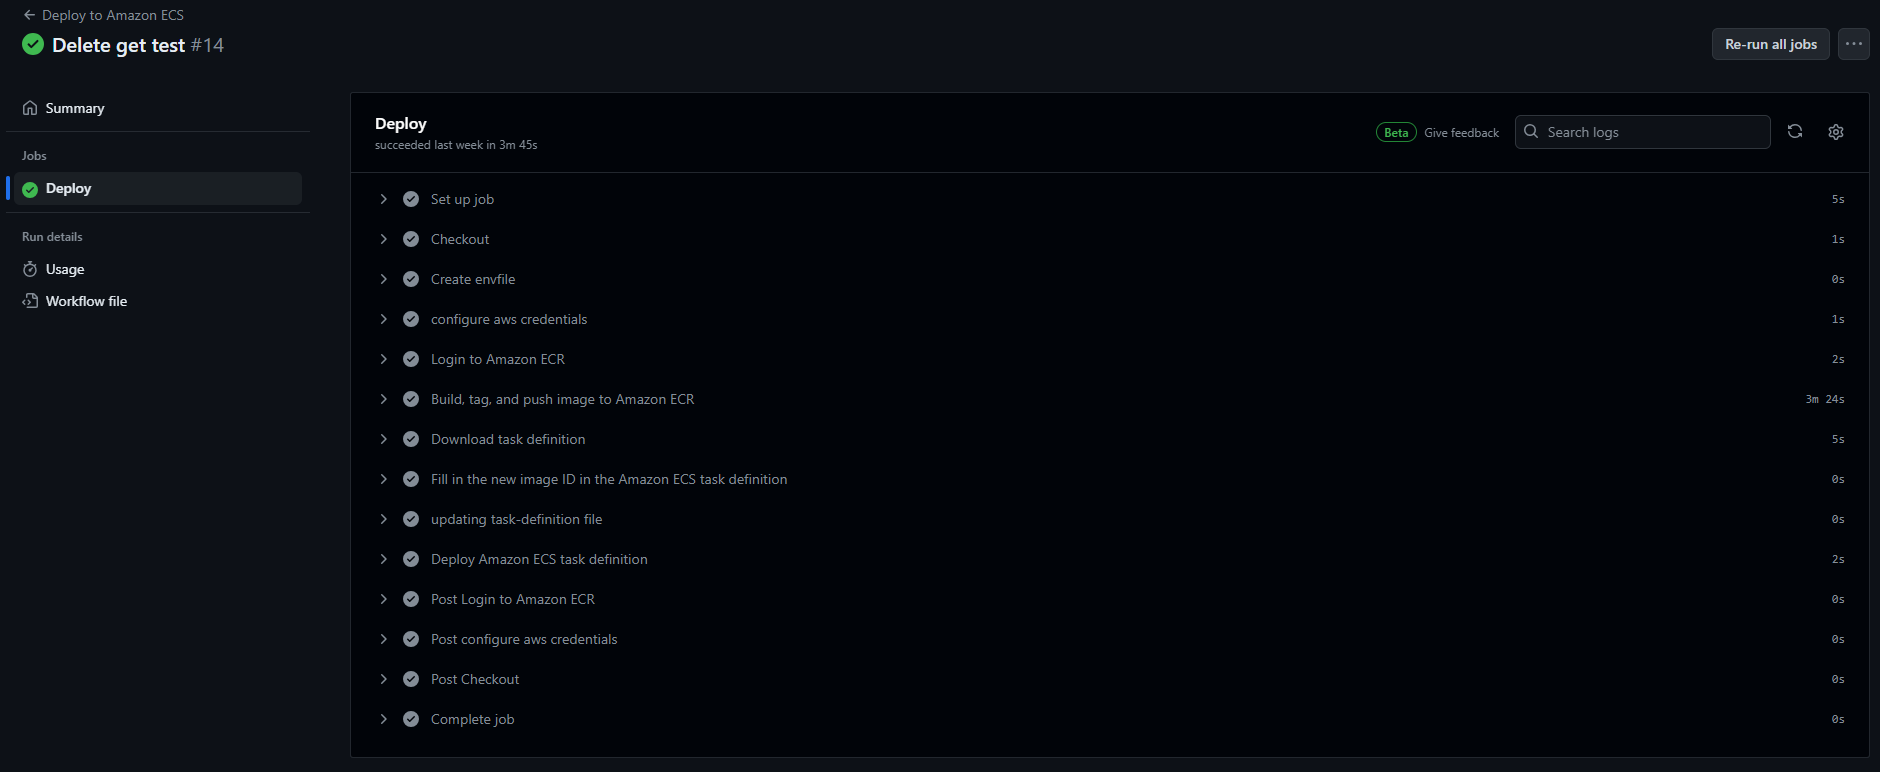
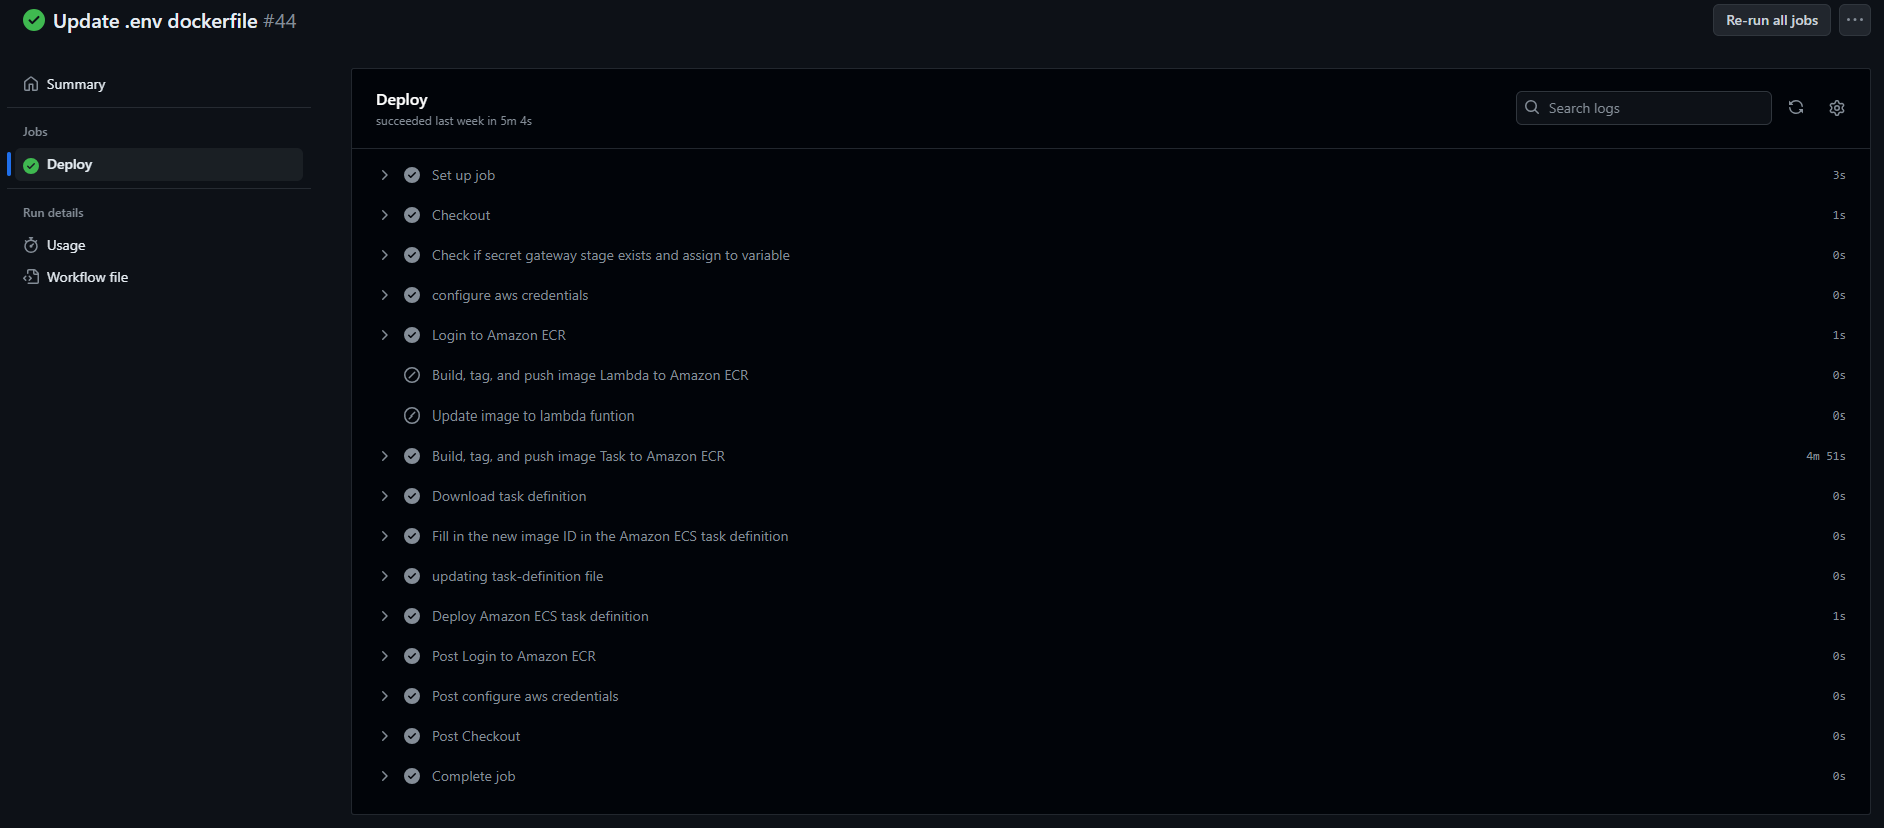
update

diff --git a/Deploy/AWS ECS Deployment.md b/Deploy/AWS ECS Deployment.md
@@ -23,7 +23,7 @@ Detailed process is available [here](https://docs.github.com/en/repositories/cre
 ## Github repo configuration
 Before configuring the deployment workflow, set the deployment variables in the GitHub repository secrets for actions. The workflow requires these variables in order to successfully push the image.
 
-![Github repository action secrets](../images/repo_secret.png "Github repository action secrets").
+![Github repository action secrets](../images/repo_secret.png "Github repository action secrets")
 
 
 | Secret  | Description   |
@@ -45,18 +45,18 @@ Whithin the Github repository, in the '.github/workflows, you will find a file A
 
 Edit the file by adding the branch name you want to deploy.
 
-![Deployment workflow](../images/ECSDeploy_workflow_edit2.png "Deployment workflow").
+![Deployment workflow](../images/ECSDeploy_workflow_edit2.png "Deployment workflow")
 
 
 The file should be as below:
 
 ```yaml
-name: Deploy to Amazon ECS
+name: Deployment AWS
 
 on:
   push:
     branches:
-      - main
+      - deploy1
 
 env:
   AWS_REGION: ${{ secrets.AWS_REGION }}
@@ -64,8 +64,13 @@ env:
   ECS_SERVICE: ${{ secrets.ECS_SERVICE }}
   ECS_CLUSTER: ${{ secrets.ECS_CLUSTER }}
   CONTAINER_NAME: ${{ secrets.CONTAINER_NAME }}
-  EDS_API_URL_SECRET: ${{ secrets.EDS_API_URL }}
-  EDS_AUTH_URL_SECRET: ${{ secrets.EDS_AUTH_URL }}
+  EDS_API_URL: ${{ secrets.EDS_API_URL }}
+  EDS_AUTH_URL: ${{ secrets.EDS_AUTH_URL }}
+  LAMBDA_FUNCTION: ${{ secrets.LAMBDA_FUNCTION }}
+  GATEWAY_STAGE: ${{ secrets.GATEWAY_STAGE }}
+  AWS_ACCESS_KEY_ID: ${{ secrets.AWS_ACCESS_KEY_ID }}
+  AWS_SECRET_ACCESS_KEY: ${{ secrets.AWS_SECRET_ACCESS_KEY }}
+  DEPLOY_LAMBDA: ${{ secrets.DEPLOY_LAMBDA }}
 
 permissions:
   id-token: write # This is required for requesting the JWT
@@ -81,15 +86,15 @@ jobs:
       - name: Checkout
         uses: actions/checkout@v3
 
-      - name: Create envfile
-        uses: SpicyPizza/create-envfile@v2.0
-        with:
-          envkey_EDS_API_URL: ${{ secrets.EDS_API_URL }}
-          envkey_EDS_AUTH_URL: ${{ secrets.EDS_AUTH_URL }}
-          envkey_INPUT_JSON_PATH: "data/processor_input_example.json"
-          file_name: .env
-          fail_on_empty: false
-          sort_keys: false
+      - name: Check if secret gateway stage exists and assign to variable
+        id: gateway-key
+        run: |
+          if [[ -n "${{ env.GATEWAY_STAGE }}" ]]; then
+            echo "::set-output name=key_gateway_stage::${{ env.GATEWAY_STAGE }}"
+          else
+            echo "::set-output name=key_gateway_stage::\"\""
+          fi
+        shell: bash
 
       - name: configure aws credentials
         uses: aws-actions/configure-aws-credentials@v4
@@ -102,8 +107,9 @@ jobs:
         id: login-ecr
         uses: aws-actions/amazon-ecr-login@v2
 
-      - name: Build, tag, and push image to Amazon ECR
-        id: build-image
+      - name: Build, tag, and push image Lambda to Amazon ECR
+        id: build-image-lambda
+        if: ${{ env.DEPLOY_LAMBDA == 'true' }}
         env:
           ECR_REGISTRY: ${{ steps.login-ecr.outputs.registry }}
           IMAGE_TAG: ${{ github.sha }}
@@ -111,12 +117,62 @@ jobs:
           # Build a docker container and
           # push it to ECR so that it can
           # be deployed to ECS.      
-          docker build -t $ECR_REGISTRY/$ECR_REPOSITORY:$IMAGE_TAG .
+          docker build \
+            --build-arg EDS_API_URL=${{ env.EDS_API_URL }} \
+            --build-arg EDS_AUTH_URL=${{ env.EDS_AUTH_URL }} \
+            --build-arg AWS_ACCESS_KEY_ID=${{ env.AWS_ACCESS_KEY_ID }} \
+            --build-arg AWS_SECRET_ACCESS_KEY=${{ env.AWS_SECRET_ACCESS_KEY }} \
+            --build-arg INPUT_JSON_PATH="data/processor_input_example.json" \
+            --build-arg GATEWAY_STAGE=${{ steps.gateway-key.outputs.key_gateway_stage }} \
+            -t $ECR_REGISTRY/$ECR_REPOSITORY:$IMAGE_TAG . -f Dockerfile_lambda
           # docker tag $ECR_REPOSITORY:latest $ECR_REGISTRY/$ECR_REPOSITORY:latest
           docker push $ECR_REGISTRY/$ECR_REPOSITORY:$IMAGE_TAG
           echo "image=$ECR_REGISTRY/$ECR_REPOSITORY:$IMAGE_TAG" >> $GITHUB_OUTPUT
 
+      - name: Update image to lambda funtion
+        id: lambda-function
+        if: ${{ env.DEPLOY_LAMBDA == 'true' }}
+        env:
+          ECR_REGISTRY: ${{ steps.login-ecr.outputs.registry }}
+          IMAGE_TAG: ${{ github.sha }}
+        run: |
+          aws lambda update-function-code \
+          --function-name $LAMBDA_FUNCTION \
+          --image-uri $ECR_REGISTRY/$ECR_REPOSITORY:$IMAGE_TAG
+
+      # - name: Update lambda funtion  configuration
+      #   id: lambda-function-config
+      #   if: ${{ env.DEPLOY_LAMBDA == 'true' }}
+      #   run: |
+      #     aws lambda update-function-configuration \
+      #     --function-name $LAMBDA_FUNCTION \
+      #      --environment "Variables={EDS_API_URL=${{ env.EDS_API_URL }},EDS_AUTH_URL=${{ env.EDS_AUTH_URL }}}"
+
+      - name: Build, tag, and push image Task to Amazon ECR
+        id: build-image
+        if: ${{ env.DEPLOY_LAMBDA != 'true' }}
+        env:
+          ECR_REGISTRY: ${{ steps.login-ecr.outputs.registry }}
+          IMAGE_TAG: ${{ github.sha }}
+        run: |
+          # Build a docker container and
+          # push it to ECR so that it can
+          # be deployed to ECS.      
+          docker build \
+            --build-arg EDS_API_URL=${{ env.EDS_API_URL }} \
+            --build-arg EDS_AUTH_URL=${{ env.EDS_AUTH_URL }} \
+            --build-arg AWS_ACCESS_KEY_ID=${{ env.AWS_ACCESS_KEY_ID }} \
+            --build-arg AWS_SECRET_ACCESS_KEY=${{ env.AWS_SECRET_ACCESS_KEY }} \
+            --build-arg INPUT_JSON_PATH="data/processor_input_example.json" \
+            --build-arg GATEWAY_STAGE=${{ steps.gateway-key.outputs.key_gateway_stage }} \
+            -t $ECR_REGISTRY/$ECR_REPOSITORY:$IMAGE_TAG . -f Dockerfile_ECS
+          # docker tag $ECR_REPOSITORY:latest $ECR_REGISTRY/$ECR_REPOSITORY:latest
+          docker push $ECR_REGISTRY/$ECR_REPOSITORY:$IMAGE_TAG
+          echo "image=$ECR_REGISTRY/$ECR_REPOSITORY:$IMAGE_TAG" >> $GITHUB_OUTPUT
+          echo "::set-output name=IMAGE_URI::$ECR_REGISTRY/$ECR_REPOSITORY:$IMAGE_TAG"
+
       - name: Download task definition
+        if: ${{ env.DEPLOY_LAMBDA != 'true' }}
         run: |
           aws ecs describe-task-definition --task-definition fastapiprocessor --query taskDefinition > task-definition.json
           echo $(cat task-definition.json | jq 'del(
@@ -132,6 +188,7 @@ jobs:
 
       - name: Fill in the new image ID in the Amazon ECS task definition
         id: task-def
+        if: ${{ env.DEPLOY_LAMBDA != 'true' }}
         uses: aws-actions/amazon-ecs-render-task-definition@v1
         with:
           task-definition: task-definition.json
@@ -139,9 +196,11 @@ jobs:
           image: ${{ steps.build-image.outputs.image }}
 
       - name: updating task-definition file
+        if: ${{ env.DEPLOY_LAMBDA != 'true' }}
         run: cat ${{ steps.task-def.outputs.task-definition }}
 
       - name: Deploy Amazon ECS task definition
+        if: ${{ env.DEPLOY_LAMBDA != 'true' }}
         uses: aws-actions/amazon-ecs-deploy-task-definition@v1
         with:
           task-definition: ${{ steps.task-def.outputs.task-definition }}
@@ -150,6 +209,24 @@ jobs:
           wait-for-service-stability: true1
 
 ```
+In this deployment workflow, the workflow will be triggered on each commit of the selected branch. To enable the workflow to be triggered manually, you need to configure the `workflow_dispatch` event. 
+
+At the beginning of the deployment yaml file, please replace 
+
+
+```yaml
+on:
+  push:
+    branches:
+      - deploy1
+```
+by 
+
+```yaml
+on: workflow_dispatch
+```
+
+You can manually trigger a workflow run using the GitHub API, GitHub CLI, or [GitHub browser interface](https://docs.github.com/en/actions/using-workflows/manually-running-a-workflow). 
 
 ## Deployment workflow execution
 

diff --git a/Deploy/AWS Lambda Deployment.md b/Deploy/AWS Lambda Deployment.md
@@ -31,14 +31,11 @@ Before configuring the deployment workflow, set the deployment variables in the 
 | AWS_REGION | This is the AWS region you are targeting for deployment  |
 | CONTAINER_NAME | Name of the container |
 | ECR_REPOSITORY  | Container registry to publish your image  |
-| ECS_CLUSTER  | ECS Cluster for container deployment   |
-| ECS_SERVICE  | ECS Service for container deployment  |
-| ECS_TASK_DEFINITION  | ECS Task definition for container deployment   |
 | EDS_API_URL | Base URL to access EarthData Store  |
 | EDS_AUTH_URL |  Base authentication URL to access EarthData Store |
 | AWS_ACCESS_KEY_ID  |  S3 Access key to push datacube assets |
 | AWS_SECRET_ACCESS_KEY |  S3 Secret Access key to push datacube assets |
-| DEPLOY_LAMBDA |  Boolean value to enable Lambda deployment (deplyoed to Lambda if True) |
+| DEPLOY_LAMBDA |  Boolean value to enable Lambda deployment (deployed to Lambda if True) |
 
 ## Deployment workflow
 Whithin the Github repository, in the '.github/workflows, you will find a file AWS_deploy.yml
@@ -52,7 +49,7 @@ Edit the file by adding the branch name you want to deploy.
 
 On every commit change, workflow is triggered and executed. Go to the actions sections of the repository and you should see the execution steps and status.
 
-![Workflow execution](../images/workflow_execution.png "Workflow execution").
+![Workflow execution](../images/workflow_execution_lambda.png "Workflow execution").
 
 ## More resources
 
